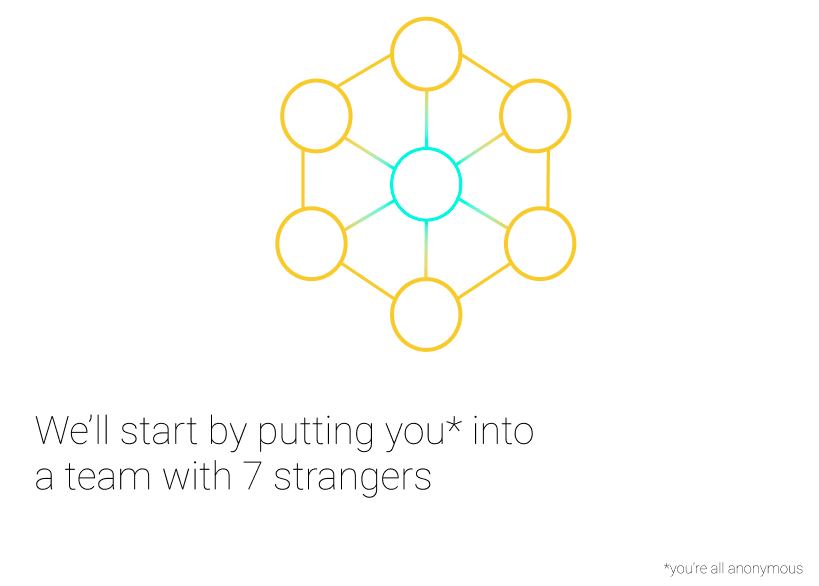
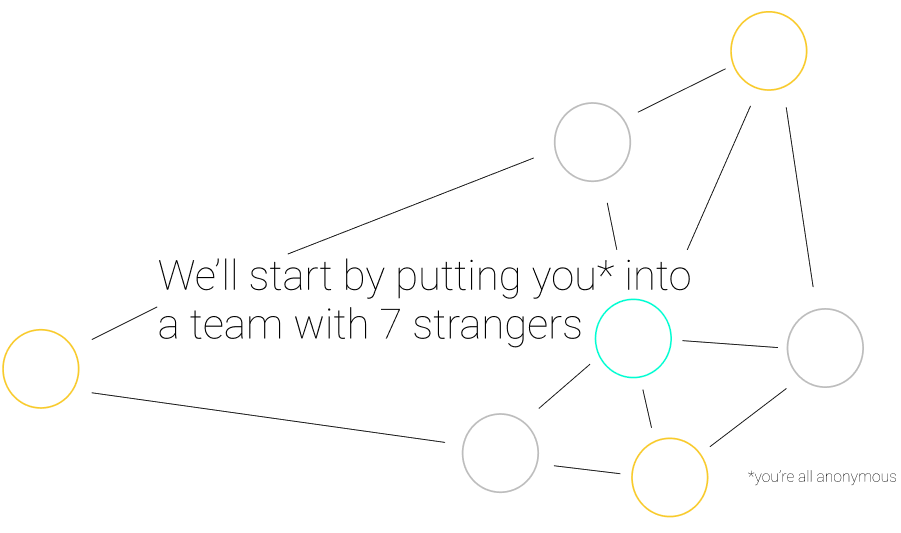
Added another background, worked with positioning

diff --git a/public/stylesheets/style.css b/public/stylesheets/style.css
@@ -81,9 +81,8 @@
   }
 
   .mindful {
-    padding: 200px 0 0 0;
-    margin-left: 20%;
-    height: 80%;
+    margin: 15% 0 0 25%; 
+    height: 60%;
     
   }
 
@@ -91,9 +90,22 @@
     width: 100%;
   }
 
+  .seven {
+    margin: 3% 0 0 17%; 
+  }
+
+  .ask {
+    width: 80%;   
+    margin: 3% 0 0 5%; 
+  }
+
   .level {
     width: 80%;   
     margin: 3% 0 0 10%; 
+  }
+
+  .centered {
+    margin: 20% 0 0 17%;
   }
 
 

diff --git a/public/index.html b/public/index.html
@@ -101,6 +101,13 @@
   </div>
 </section>
 
+<section id="betweenSlidesAnimEnd">
+    <div class="fake-content">
+      <div class="images-container">
+        <img class="centered" src="images/centered.png" alt="centered" />      
+      </div>
+    </div>
+  </section>
 
 </div>
 
